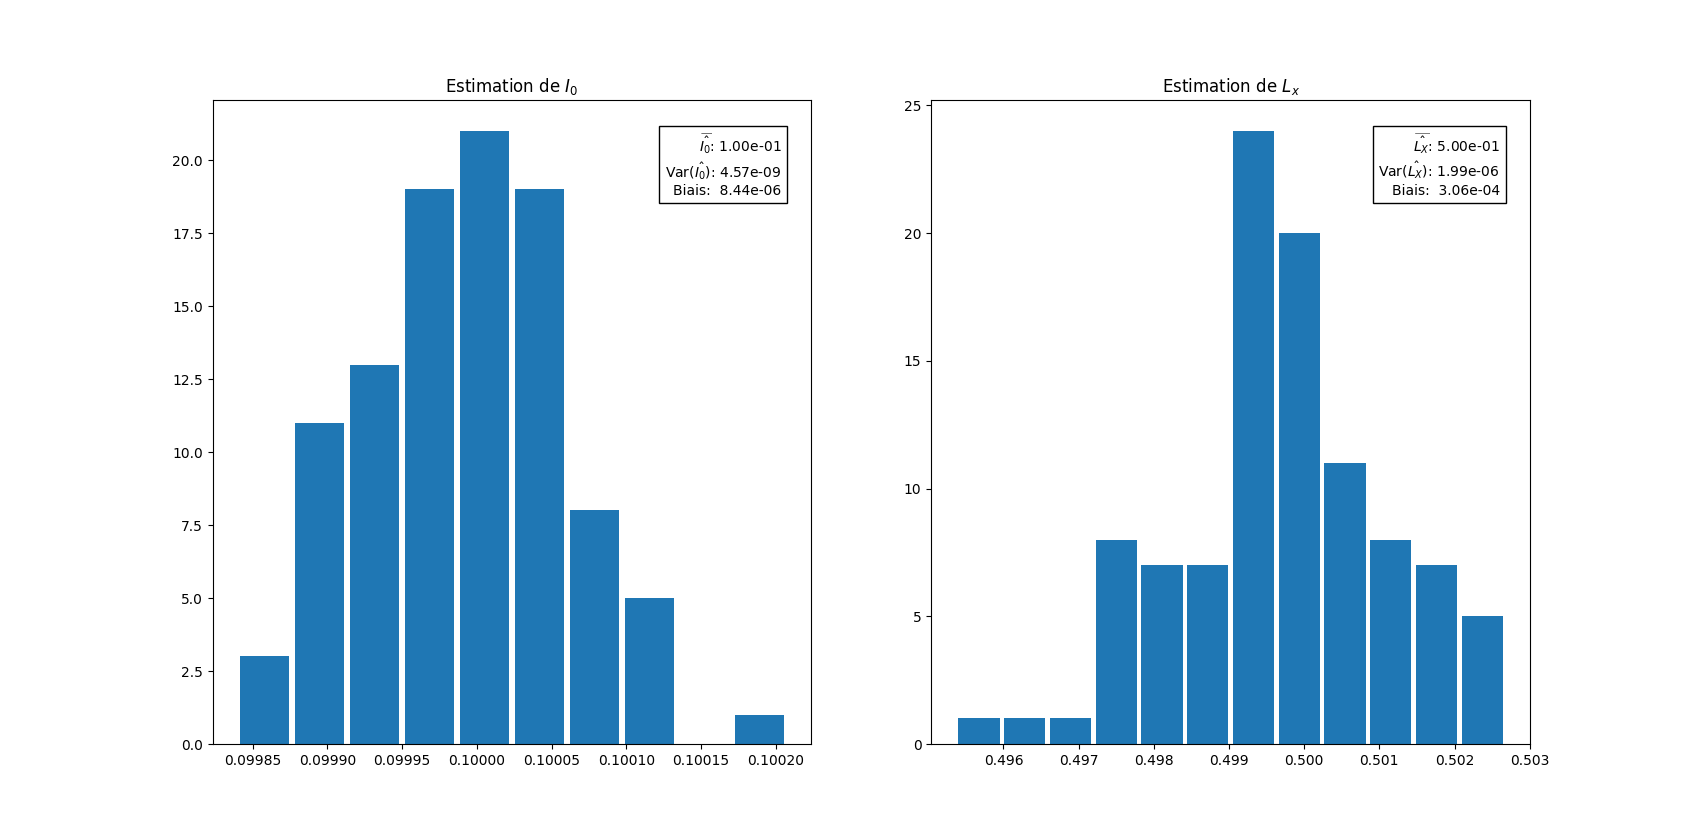
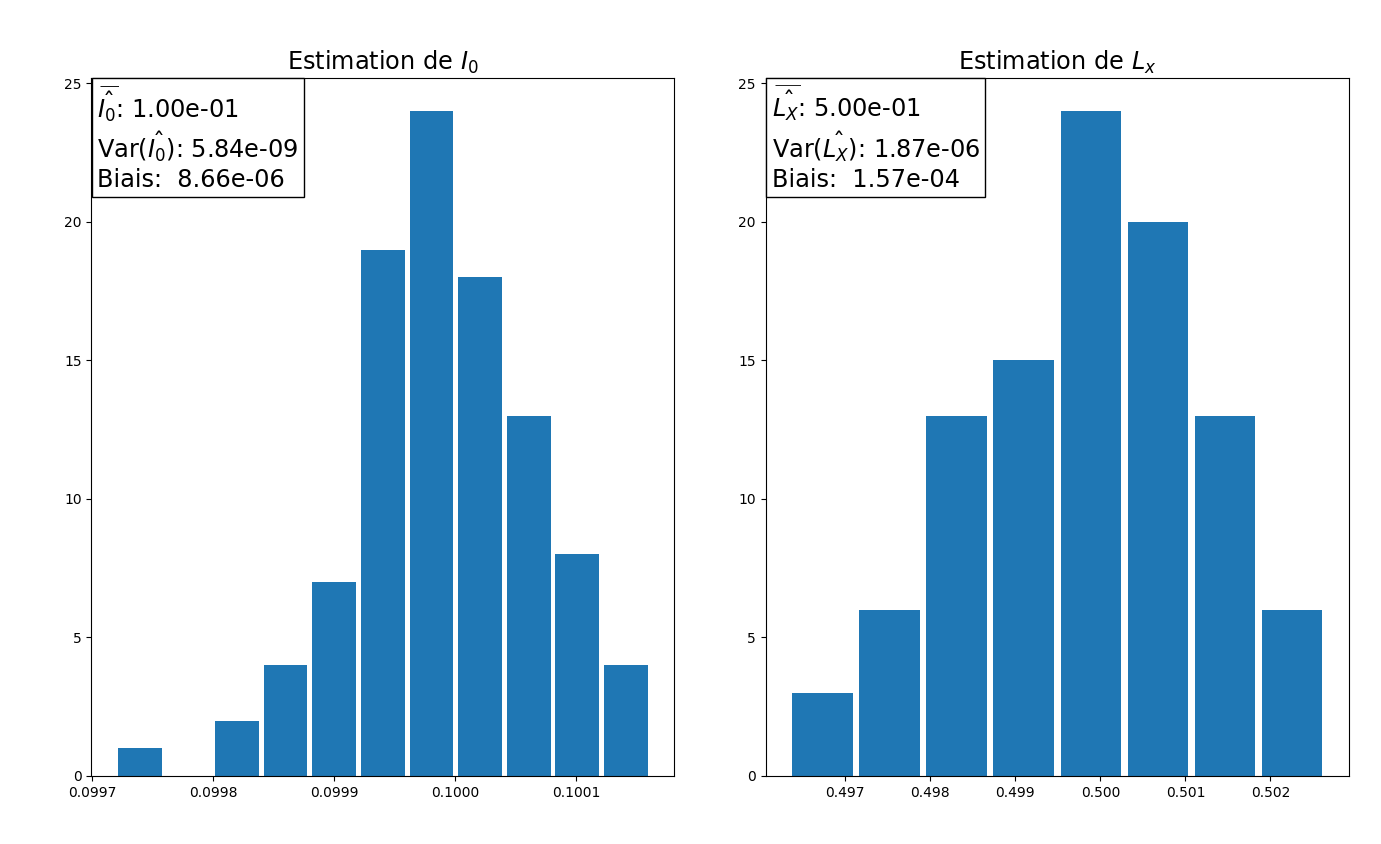
Reworked estimation graph

diff --git a/main.py b/main.py
@@ -62,21 +62,23 @@ Lxvar = np.var(estLx)
 
 fig, (ax1, ax2) = plt.subplots(1, 2)
 
-ax1.set_title(r"Estimation de $I_0$")
+ax1.set_title(r"Estimation de $I_0$", size="xx-large")
 ax1.hist(estI0, bins='auto', rwidth=0.9, align='mid')
-ax1.text(0.95, 0.95,
+ax1.text(0.01, 0.99,
          r"$\widebar{\hat{I_0}}$: " f"{I0bar:.2e}\n"
          r"Var($\hat{I_0}$): " f"{I0var:.2e}\n"
          f"Biais: {np.abs(I0bar-I0): .2e}",
-         ha='right', va='top', transform=ax1.transAxes, bbox=dict(facecolor='w', edgecolor='k'))
+         ha='left', va='top', transform=ax1.transAxes, size="xx-large",
+         bbox=dict(facecolor='w', edgecolor='k'))
 
-ax2.set_title(r"Estimation de $L_x$")
+ax2.set_title(r"Estimation de $L_x$", size="xx-large")
 ax2.hist(estLx, bins='auto', rwidth=0.9, align='mid')
-ax2.text(0.95, 0.95,
+ax2.text(0.01 , 0.99,
          r"$\widebar{\hat{L_X}}$: " f"{Lxbar:.2e}\n"
          r"Var($\hat{L_X}$): " f"{Lxvar:.2e}\n"
          f"Biais: {np.abs(Lxbar-Lx): .2e}",
-         ha='right', va='top', transform=ax2.transAxes, bbox=dict(facecolor='w', edgecolor='k'))
+         ha='left', va='top', transform=ax2.transAxes, size="xx-large",
+         bbox=dict(facecolor='w', edgecolor='k'))
 
-#fig.tight_layout()
+fig.tight_layout()
 plt.show()